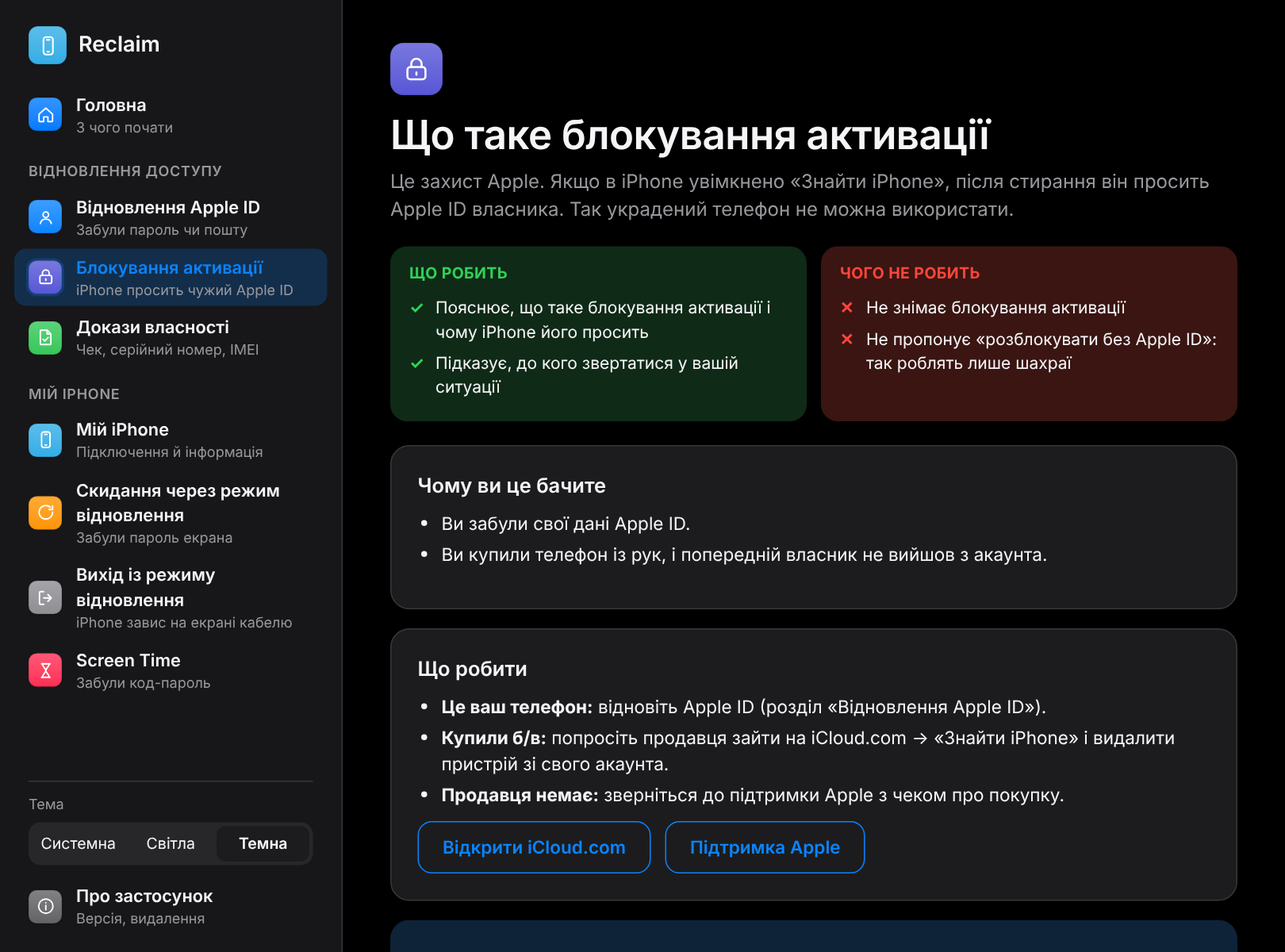
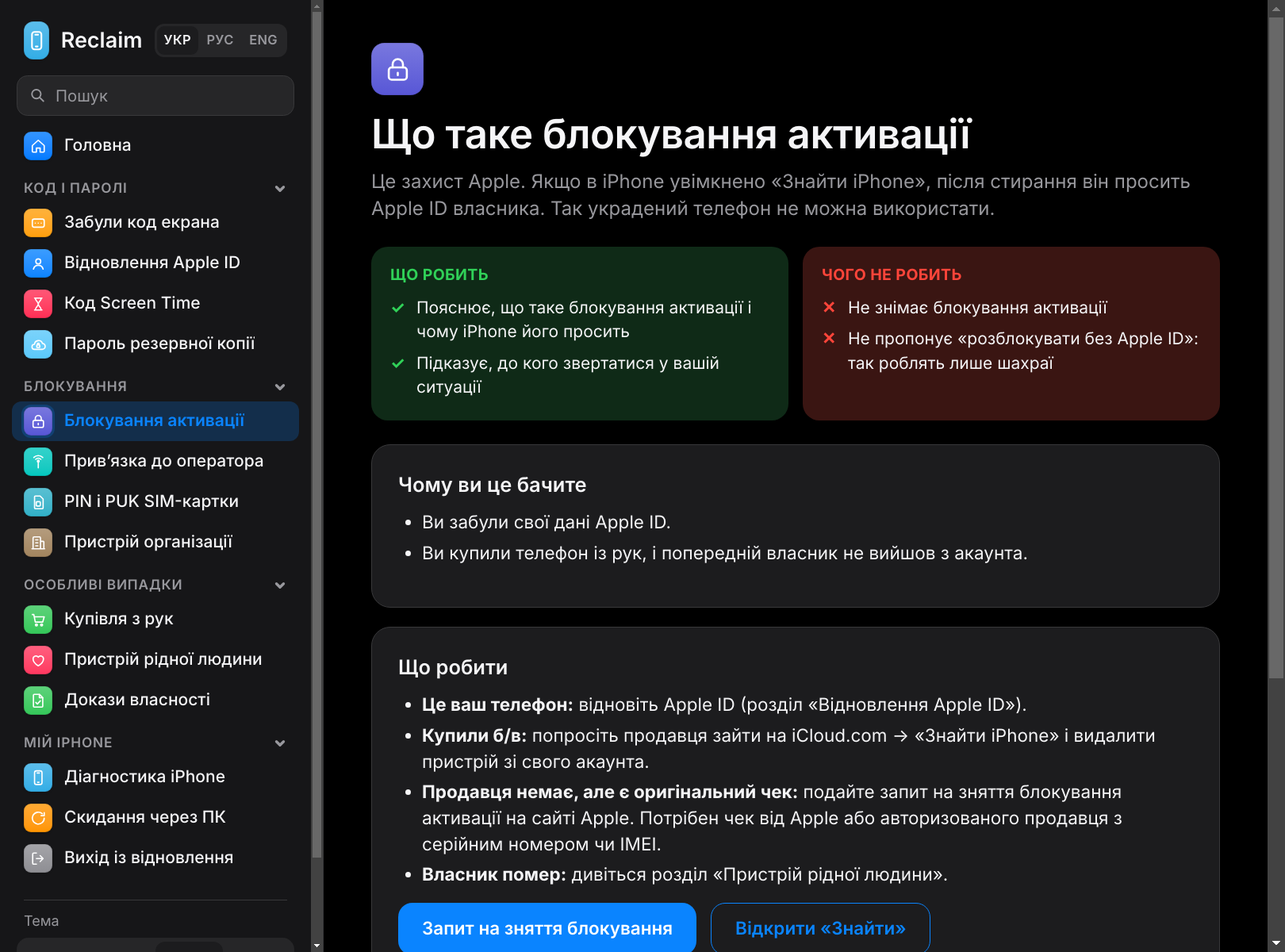
Ліцензія MIT, оновлені README і сайт, нові знімки екрана
- LICENSE (MIT) для коду Reclaim; утиліти в bin/ лишаються під своїми ліцензіями.
- README: опис 1.3, бейдж ліцензії, нові знімки (діагностика, код екрана, «Скло»).
- Сайт: діагностика, 12 ситуацій, 3 мови, 4 теми, нові питання, посилання на ліцензію,
  галерея з новими знімками й темою «Скло».

Claude-Session: https://claude.ai/code/session_01SfcRwrq7JbfbVUVCpvkivz

Changed region(s): [[0.0, 0.0, 1.0, 1.0]]

diff --git a/index.html b/index.html
@@ -4,9 +4,9 @@
 <meta charset="utf-8">
 <meta name="viewport" content="width=device-width, initial-scale=1">
 <title>Reclaim — чесний помічник для власника iPhone</title>
-<meta name="description" content="Reclaim — застосунок для Windows: відновлення Apple ID, пояснення блокування активації, докази власності, інформація про iPhone. Тільки офіційні шляхи Apple.">
+<meta name="description" content="Reclaim — застосунок для Windows: діагностика iPhone через кабель, забутий код екрана й пароль Apple ID, блокування активації, оператор, SIM, купівля з рук. Тільки офіційні шляхи Apple. Українська, російська, англійська.">
 <meta property="og:title" content="Reclaim">
-<meta property="og:description" content="Чесний помічник для власника iPhone, який забув пароль або Apple ID.">
+<meta property="og:description" content="Чесний помічник для власника iPhone: діагностика через кабель і офіційні шляхи Apple для 12 ситуацій.">
 <meta property="og:image" content="screenshots/home.png">
 <link rel="icon" type="image/png" href="icon.png">
 <style>
@@ -194,39 +194,39 @@ footer a{color:var(--ink2)}
 
     <div class="hero">
       <svg class="logo" viewBox="0 0 100 100" aria-hidden="true"><use href="#rc"/></svg>
-      <div class="eyebrow"><i></i>Версія <span class="ver">0.3.1</span> · Windows</div>
+      <div class="eyebrow"><i></i>Версія <span class="ver">1.3</span> · Windows</div>
       <h1>Reclaim</h1>
       <div class="tag">Поверніть доступ чесним шляхом.</div>
-      <p class="lead">Чесний помічник для власника iPhone, який забув пароль або Apple ID. Крок за кроком веде офіційними шляхами Apple.</p>
+      <p class="lead">Чесний помічник для власника iPhone: діагностика через кабель і покрокові офіційні шляхи Apple для 12 ситуацій, від забутого коду до купівлі з рук.</p>
       <div class="cta">
-        <a class="btn primary dl" href="#install"><svg viewBox="0 0 24 24" fill="none" stroke="currentColor" stroke-width="2.2" stroke-linecap="round" stroke-linejoin="round"><path d="M12 4v11M7 10.5l5 5 5-5M5 19.5h14"/></svg>Завантажити <span class="ver">0.3.1</span></a>
+        <a class="btn primary dl" href="#install"><svg viewBox="0 0 24 24" fill="none" stroke="currentColor" stroke-width="2.2" stroke-linecap="round" stroke-linejoin="round"><path d="M12 4v11M7 10.5l5 5 5-5M5 19.5h14"/></svg>Завантажити <span class="ver">1.3</span></a>
         <a class="btn ghost repo" href="#install">Код на GitHub</a>
       </div>
-      <div class="meta">Один інсталятор · без акаунтів · українською</div>
+      <div class="meta">Один інсталятор · без акаунтів · українська, російська, англійська · MIT</div>
 
       <div class="shot">
         <div class="bar"><span>Reclaim</span><span class="ctl"><span>—</span><span>☐</span><span>✕</span></span></div>
-        <img id="heroShot" class="themed" data-shot="home" src="screenshots/home.png" width="1620" height="1200" alt="Головне вікно Reclaim: відновлення Apple ID, блокування активації, скидання, Screen Time, інформація про iPhone">
+        <img id="heroShot" class="themed" data-shot="home" src="screenshots/home.png" width="1620" height="1200" alt="Головне вікно Reclaim: діагностика iPhone, коди й паролі, блокування, особливі випадки">
       </div>
     </div>
 
     <section id="features" class="reveal">
       <div class="head">
         <h2>Підключили — і видно все.</h2>
-        <p>Reclaim показує, що готово, а чого бракує, і лише пропонує офіційні кроки. Нічого не завантажується приховано.</p>
+        <p>Reclaim перевіряє iPhone і підказує, у який розділ звернутися. На телефоні нічого не змінюється, нічого не завантажується приховано.</p>
       </div>
       <div class="wide">
         <div class="txt">
-          <h3>iPhone одразу в розділі «Мій iPhone».</h3>
-          <p>Утиліти libimobiledevice вбудовані, окремо ставити їх не треба. Застосунок перевіряє драйвер Apple і, якщо його немає, пропонує відкрити офіційне встановлення з Microsoft Store.</p>
-          <div class="modes"><span class="on">Драйвер Apple</span><span class="on">iPhone підключено</span><span class="on">Довіра до комп’ютера</span></div>
+          <h3>Діагностика iPhone через кабель.</h3>
+          <p>Активація, код-пароль, «Знайти iPhone», стан SIM-картки, здоров’я й цикли батареї, вільна пам’ять, модель, iOS, серійний номер та IMEI. Якщо щось не так, з’являється порада з кнопкою на потрібний розділ, а звіт можна скопіювати одним натисканням. Утиліти libimobiledevice вбудовані.</p>
+          <div class="modes"><span class="on">Активація</span><span class="on">Код-пароль</span><span class="on">Знайти iPhone</span><span class="on">SIM-картка</span><span class="on">Батарея</span><span class="on">Пам’ять</span></div>
         </div>
-        <div class="pic"><img class="themed" data-shot="device" src="screenshots/device.png" alt="Розділ Мій iPhone: драйвер, підключення, довіра та інформація про пристрій"></div>
+        <div class="pic"><img class="themed" data-shot="device" src="screenshots/device.png" alt="Діагностика iPhone: активація, код-пароль, Знайти iPhone, SIM-картка, батарея й пам’ять"></div>
       </div>
       <div class="stats">
-        <div class="stat"><b>9</b><span>екранів, кожен із простим поясненням</span></div>
-        <div class="stat"><b>3</b><span>теми: системна, світла, темна</span></div>
-        <div class="stat"><b>PDF</b><span>пакет доказів власності</span></div>
+        <div class="stat"><b>12</b><span>ситуацій з офіційним шляхом Apple</span></div>
+        <div class="stat"><b>3</b><span>мови: українська, російська, англійська</span></div>
+        <div class="stat"><b>4</b><span>теми: авто, світла, темна, «Скло»</span></div>
         <div class="stat"><b>0</b><span>обходів захисту Apple</span></div>
       </div>
     </section>
@@ -237,7 +237,7 @@ footer a{color:var(--ink2)}
         <p>На кожному екрані написано, що режим робить і чого не робить.</p>
       </div>
       <div class="grid">
-        <div class="card" style="--c:#0A84FF"><div class="ic"><svg viewBox="0 0 24 24" fill="none" stroke="currentColor" stroke-width="1.8" stroke-linecap="round" stroke-linejoin="round"><circle cx="12" cy="9" r="3.3"/><path d="M5.5 19.5c.8-3.3 3.5-5.2 6.5-5.2s5.7 1.9 6.5 5.2"/></svg></div><h3>Відновлення Apple ID</h3><p>Веде на офіційну сторінку iforgot.apple.com, де відновлюють доступ до облікового запису.</p></div>
+        <div class="card" style="--c:#0A84FF"><div class="ic"><svg viewBox="0 0 24 24" fill="none" stroke="currentColor" stroke-width="1.8" stroke-linecap="round" stroke-linejoin="round"><circle cx="12" cy="9" r="3.3"/><path d="M5.5 19.5c.8-3.3 3.5-5.2 6.5-5.2s5.7 1.9 6.5 5.2"/></svg></div><h3>Відновлення Apple ID</h3><p>Веде на офіційну сторінку iforgot.apple.com і підказує, що робити, якщо Apple ID заблоковано або вимкнено.</p></div>
         <div class="card" style="--c:#FF9F0A"><div class="ic"><svg viewBox="0 0 24 24" fill="none" stroke="currentColor" stroke-width="1.8" stroke-linecap="round" stroke-linejoin="round"><rect x="4" y="6.5" width="16" height="11" rx="2.5"/><path d="M8 12h.01M12 12h.01M16 12h.01"/></svg></div><h3>Забули код екрана</h3><p>Старий код протягом 72 годин, скидання на самому iPhone, через «Знайти» або комп’ютер. Від способу, що зберігає дані, до крайнього.</p></div>
         <div class="card" style="--c:#00C7BE"><div class="ic"><svg viewBox="0 0 24 24" fill="none" stroke="currentColor" stroke-width="1.8" stroke-linecap="round" stroke-linejoin="round"><path d="M12 20v-8M8.5 8.5a5 5 0 017 0M6 6a8.5 8.5 0 0112 0"/><circle cx="12" cy="11" r="1.2"/></svg></div><h3>Прив’язка до оператора</h3><p>Як перевірити «Блокування оператора» і попросити оператора зняти прив’язку законно.</p></div>
         <div class="card" style="--c:#30B0C7"><div class="ic"><svg viewBox="0 0 24 24" fill="none" stroke="currentColor" stroke-width="1.8" stroke-linecap="round" stroke-linejoin="round"><path d="M8 3.5h6.5L18.5 7.5V19.5a1 1 0 01-1 1h-9.5a1 1 0 01-1-1v-15a1 1 0 011-1z"/><rect x="9.3" y="11" width="5.4" height="6" rx="1"/></svg></div><h3>PIN і PUK SIM-картки</h3><p>Де взяти PUK, чому не можна вгадувати і як вимкнути запит PIN.</p></div>
@@ -245,12 +245,12 @@ footer a{color:var(--ink2)}
         <div class="card" style="--c:#A2845E"><div class="ic"><svg viewBox="0 0 24 24" fill="none" stroke="currentColor" stroke-width="1.8" stroke-linecap="round" stroke-linejoin="round"><path d="M5 20V5.5A1.5 1.5 0 016.5 4h7A1.5 1.5 0 0115 5.5V20M15 10h3.5a1 1 0 011 1v9M3.5 20h17M8.5 8h3M8.5 12h3M8.5 16h3"/></svg></div><h3>Пристрій організації</h3><p>Що означає «Віддалене керування» і до кого звернутися, щоб звільнити iPhone.</p></div>
         <div class="card" style="--c:#FF375F"><div class="ic"><svg viewBox="0 0 24 24" fill="none" stroke="currentColor" stroke-width="1.8" stroke-linecap="round" stroke-linejoin="round"><path d="M12 19.5s-7-4.3-7-9.4A3.9 3.9 0 0112 7.8a3.9 3.9 0 017 2.3c0 5.1-7 9.4-7 9.4z"/></svg></div><h3>Пристрій рідної людини</h3><p>Офіційний шлях Apple для родини: контакт спадку або запит з документами.</p></div>
         <div class="card" style="--c:#5AC8FA"><div class="ic"><svg viewBox="0 0 24 24" fill="none" stroke="currentColor" stroke-width="1.8" stroke-linecap="round" stroke-linejoin="round"><path d="M7 18.5h10a4 4 0 00.6-8 5.5 5.5 0 00-10.7 1.2A3.4 3.4 0 007 18.5z"/><rect x="10" y="12.5" width="4" height="3.5" rx=".8"/></svg></div><h3>Пароль резервної копії</h3><p>Як скинути пароль зашифрованих копій на самому iPhone, не втрачаючи даних.</p></div>
-        <div class="card" style="--c:#5856D6"><div class="ic"><svg viewBox="0 0 24 24" fill="none" stroke="currentColor" stroke-width="1.8" stroke-linecap="round" stroke-linejoin="round"><rect x="5" y="10.5" width="14" height="9.5" rx="2.2"/><path d="M8 10.5V8a4 4 0 018 0v2.5M12 14.6v1.8"/></svg></div><h3>Блокування активації</h3><p>Пояснює, що це за захист і як його знімає власник за допомогою Apple ID та пароля.</p></div>
+        <div class="card" style="--c:#5856D6"><div class="ic"><svg viewBox="0 0 24 24" fill="none" stroke="currentColor" stroke-width="1.8" stroke-linecap="round" stroke-linejoin="round"><rect x="5" y="10.5" width="14" height="9.5" rx="2.2"/><path d="M8 10.5V8a4 4 0 018 0v2.5M12 14.6v1.8"/></svg></div><h3>Блокування активації</h3><p>Що це за захист, що робити власнику й покупцеві і як подати офіційний запит до Apple з чеком.</p></div>
         <div class="card" style="--c:#34C759"><div class="ic"><svg viewBox="0 0 24 24" fill="none" stroke="currentColor" stroke-width="1.8" stroke-linecap="round" stroke-linejoin="round"><path d="M6.5 3.5h7.2L18 7.8V19.5a1 1 0 01-1 1H6.5a1 1 0 01-1-1v-15a1 1 0 011-1z"/><path d="M13.5 3.5V8H18M8.7 14.3l2.1 2.1 4-4.2"/></svg></div><h3>Докази власності</h3><p>Чек-лист того, що потрібно підтримці Apple, плюс серійний номер та IMEI, які можна зберегти як PDF-пакет.</p></div>
         <div class="card" style="--c:#32ADE6"><div class="ic"><svg viewBox="0 0 24 24" fill="none" stroke="currentColor" stroke-width="1.8" stroke-linecap="round" stroke-linejoin="round"><rect x="7" y="2.8" width="10" height="18.4" rx="2.6"/><path d="M10.5 5.7h3M11 18.2h2"/></svg></div><h3>Діагностика iPhone</h3><p>Підключіть кабелем: активація, код-пароль, «Знайти iPhone», SIM-картка, здоров’я батареї й цикли, пам’ять, IMEI. Поради, у який розділ звернутися, і звіт одним натисканням.</p></div>
         <div class="card" style="--c:#FF9500"><div class="ic"><svg viewBox="0 0 24 24" fill="none" stroke="currentColor" stroke-width="1.8" stroke-linecap="round" stroke-linejoin="round"><path d="M20 12a8 8 0 11-2.6-5.9"/><path d="M20 4.5v4.2h-4.2"/></svg></div><h3>Скидання через режим відновлення</h3><p>Покрокові підказки для різних моделей. Саме скидання виконує програма Apple, і дані на пристрої видаляються.</p></div>
         <div class="card" style="--c:#8E8E93"><div class="ic"><svg viewBox="0 0 24 24" fill="none" stroke="currentColor" stroke-width="1.8" stroke-linecap="round" stroke-linejoin="round"><path d="M9.5 4.5H6A1.5 1.5 0 004.5 6v12A1.5 1.5 0 006 19.5h3.5M14.5 8l4 4-4 4M18.5 12h-9"/></svg></div><h3>Вихід із режиму відновлення</h3><p>Кроки для різних моделей, якщо iPhone завис на екрані з кабелем і комп’ютером.</p></div>
-        <div class="card" style="--c:#FF2D55"><div class="ic"><svg viewBox="0 0 24 24" fill="none" stroke="currentColor" stroke-width="1.8" stroke-linecap="round" stroke-linejoin="round"><path d="M7 4h10M7 20h10M8 4c0 4 4 5 4 8s-4 4-4 8M16 4c0 4-4 5-4 8s4 4 4 8"/></svg></div><h3>Screen Time</h3><p>Офіційні способи змінити код-пароль Screen Time. Код не підбирається і не «ламається».</p></div>
+        <div class="card" style="--c:#FF2D55"><div class="ic"><svg viewBox="0 0 24 24" fill="none" stroke="currentColor" stroke-width="1.8" stroke-linecap="round" stroke-linejoin="round"><path d="M7 4h10M7 20h10M8 4c0 4 4 5 4 8s-4 4-4 8M16 4c0 4-4 5-4 8s4 4 4 8"/></svg></div><h3>Код Screen Time</h3><p>Офіційні способи змінити код-пароль Screen Time. Код не підбирається і не «ламається».</p></div>
         <div class="card" style="--c:#0A84FF"><div class="ic"><svg viewBox="0 0 24 24" fill="none" stroke="currentColor" stroke-width="1.8" stroke-linecap="round" stroke-linejoin="round"><circle cx="12" cy="12" r="8.5"/><path d="M12 3.5v17"/><path d="M12 3.5a8.5 8.5 0 010 17z" fill="currentColor"/></svg></div><h3>Три мови й теми, зокрема «Скло»</h3><p>Українська, російська або англійська. Теми: авто, світла, темна або «Скло» з розмитими шпалерами вашого робочого стола. Вибір запам’ятовується.</p></div>
         <div class="card" style="--c:#FF3B30"><div class="ic"><svg viewBox="0 0 24 24" fill="none" stroke="currentColor" stroke-width="1.8" stroke-linecap="round" stroke-linejoin="round"><path d="M4 7h16M9 7V4.5h6V7M6.5 7l1 13h9l1-13"/></svg></div><h3>Видалення в один клік</h3><p>У «Про застосунок» видно версію, а кнопка запускає стандартне видалення Windows.</p></div>
       
@@ -263,15 +263,15 @@ footer a{color:var(--ink2)}
     <section id="gallery" class="gallery reveal">
       <div class="head">
         <h2>Подивіться зблизька.</h2>
-        <p>Світла й темна тема, бічне меню з підрозділами, у стилі Apple.</p>
+        <p>Світла, темна й «Скло», компактне меню з групами й пошуком, у стилі Apple.</p>
       </div>
       <div class="tabs" role="tablist" aria-label="Знімки екрана">
         <button role="tab" data-i="0" aria-selected="true">Головна</button>
-        <button role="tab" data-i="1" aria-selected="false">Мій iPhone</button>
-        <button role="tab" data-i="2" aria-selected="false">Докази</button>
+        <button role="tab" data-i="1" aria-selected="false">Діагностика</button>
+        <button role="tab" data-i="2" aria-selected="false">Код екрана</button>
         <button role="tab" data-i="3" aria-selected="false">Активація</button>
-        <button role="tab" data-i="4" aria-selected="false">Скидання</button>
-        <button role="tab" data-i="5" aria-selected="false">Про застосунок</button>
+        <button role="tab" data-i="4" aria-selected="false">Докази</button>
+        <button role="tab" data-i="5" aria-selected="false">«Скло»</button>
       </div>
       <div class="shot">
         <div class="bar"><span>Reclaim</span><span class="ctl"><span>—</span><span>☐</span><span>✕</span></span></div>
@@ -311,12 +311,15 @@ footer a{color:var(--ink2)}
       <div class="head"><h2>Питання й відповіді.</h2></div>
       <div class="faq">
         <details><summary>Чи може Reclaim розблокувати чужий iPhone?</summary><p>Ні. Застосунок не обходить блокування активації і не знімає Apple ID без пароля власника.</p></details>
-        <details><summary>Навіщо потрібен драйвер Apple?</summary><p>Без служби Apple Mobile Device, яка входить до Apple Devices та iTunes, Windows не бачить iPhone, і розділ «Мій iPhone» буде порожнім.</p></details>
+        <details><summary>Навіщо потрібен драйвер Apple?</summary><p>Без служби Apple Mobile Device, яка входить до Apple Devices та iTunes, Windows не бачить iPhone, і «Діагностика iPhone» не зможе його перевірити.</p></details>
         <details><summary>Чи завантажує Reclaim щось сам?</summary><p>Ні. Якщо драйвера немає, застосунок лише пропонує відкрити офіційне встановлення з Microsoft Store.</p></details>
         <details><summary>Що станеться з даними під час скидання?</summary><p>Скидання через режим відновлення видаляє дані на iPhone. Його виконує програма Apple, а не Reclaim.</p></details>
         <details><summary>Скільки триває відновлення Apple ID?</summary><p>Це визначає Apple. Іноді відновлення облікового запису займає кілька днів, тому докази власності краще підготувати заздалегідь.</p></details>
         <details><summary>Куди потрапляють мої дані?</summary><p>Reclaim працює локально на вашому комп’ютері й відкриває лише офіційні сайти Apple та Microsoft Store. Єдиний мережевий запит застосунок робить до GitHub: раз на годину питає номер останньої версії. Історія iPhone лежить лише на вашому комп’ютері й нікуди не надсилається.</p></details>
-        <details><summary>Це відкритий код?</summary><p>Так, увесь код лежить у <a class="repo" href="#">репозиторії на GitHub</a>, а інсталятор збирає GitHub Actions із цього коду.</p></details>
+        <details><summary>Чи можна перевірити iPhone перед покупкою?</summary><p>Так. Підключіть його кабелем: «Діагностика iPhone» покаже стан активації, SIM-картки й батареї, а розділ «Купівля з рук» підкаже, що ще перевірити до оплати. Головне правило: продавець має вийти з Apple ID і стерти iPhone при вас.</p></details>
+        <details><summary>Чому не видно номер телефону?</summary><p>iOS часто не передає номер через кабель, особливо з eSIM, а багато операторів не записують номер на SIM-картку. Тому Reclaim чесно пише, що номер недоступний.</p></details>
+        <details><summary>Якими мовами працює застосунок?</summary><p>Українською, російською та англійською. Перемикач стоїть поруч із назвою Reclaim, вибір запам’ятовується.</p></details>
+        <details><summary>Це відкритий код?</summary><p>Так, увесь код лежить у <a class="repo" href="#">репозиторії на GitHub</a> під ліцензією MIT, а інсталятор збирає GitHub Actions із цього коду. Вбудовані утиліти libimobiledevice мають власні ліцензії.</p></details>
         <details><summary>Як оновити застосунок?</summary><p>Коли вийде нова версія, на головній і в «Про застосунок» з’явиться кнопка «Оновити»: вона відкриє сторінку релізу. Завантажте новий інсталятор і запустіть його. Нічого не встановлюється без вашої дії.</p></details>
         <details><summary>Як видалити застосунок?</summary><p>Через <b>Параметри → Програми → Reclaim → Видалити</b> або кнопкою в розділі «Про застосунок».</p></details>
       </div>
@@ -325,9 +328,9 @@ footer a{color:var(--ink2)}
     <div class="get reveal">
       <svg class="logo" viewBox="0 0 100 100" aria-hidden="true"><use href="#rc"/></svg>
       <h2>Поверніть доступ до свого iPhone.</h2>
-      <p class="lead">Версія <span class="ver">0.3.1</span> для Windows.</p>
+      <p class="lead">Версія <span class="ver">1.3</span> для Windows.</p>
       <div class="cta">
-        <a class="btn primary dl" href="#install"><svg viewBox="0 0 24 24" fill="none" stroke="currentColor" stroke-width="2.2" stroke-linecap="round" stroke-linejoin="round"><path d="M12 4v11M7 10.5l5 5 5-5M5 19.5h14"/></svg>Завантажити <span class="ver">0.3.1</span></a>
+        <a class="btn primary dl" href="#install"><svg viewBox="0 0 24 24" fill="none" stroke="currentColor" stroke-width="2.2" stroke-linecap="round" stroke-linejoin="round"><path d="M12 4v11M7 10.5l5 5 5-5M5 19.5h14"/></svg>Завантажити <span class="ver">1.3</span></a>
         <a class="btn ghost rel" href="#install">Усі версії</a>
         <a class="btn ghost repo" href="#install">Код на GitHub</a>
       </div>
@@ -337,7 +340,7 @@ footer a{color:var(--ink2)}
 
 <footer>
   <div class="wrap">
-    <span>© 2026 Дмитро Бричнік · Reclaim <span class="ver">0.3.1</span> · <a class="repo" href="#">Код на GitHub</a></span>
+    <span>© 2026 Дмитро Бричнік · Reclaim <span class="ver">1.3</span> · <a class="repo" href="#">Код на GitHub</a> · <a class="license" href="#">Ліцензія MIT</a></span>
     <span>Вбудовані утиліти: libimobiledevice, OpenSSL · <a class="notice" href="#">ліцензії</a></span>
     <span>Apple, iPhone, iTunes та Apple ID є торговими марками Apple Inc. Reclaim не пов’язаний з Apple.</span>
   </div>

diff --git a/script.js b/script.js
@@ -16,6 +16,7 @@
   document.querySelectorAll('.rel').forEach(function (a) { a.href = base + '/releases'; });
   document.querySelectorAll('.repo').forEach(function (a) { a.href = base; });
   document.querySelectorAll('.notice').forEach(function (a) { a.href = base + '/blob/main/bin/NOTICE.txt'; });
+  document.querySelectorAll('.license').forEach(function (a) { a.href = base + '/blob/main/LICENSE'; });
 
   function setVer(v) { document.querySelectorAll('.ver').forEach(function (s) { s.textContent = v; }); }
   setVer(cfg.version || '');
@@ -53,17 +54,17 @@
   // ----- галерея -----
   var shots = [
     { n: 'home',       c: 'Головна: оберіть, що сталося, і Reclaim проведе офіційним шляхом Apple.' },
-    { n: 'device',     c: 'Мій iPhone: що готово, а чого бракує, плюс модель, версія iOS, серійний номер та IMEI.' },
+    { n: 'device',     c: 'Діагностика iPhone: активація, код-пароль, «Знайти iPhone», SIM-картка, батарея й пам’ять, плюс поради, куди звернутися.' },
+    { n: 'passcode',   c: 'Забули код екрана: чотири офіційні способи, від того, що зберігає дані, до скидання.' },
+    { n: 'activation', c: 'Блокування активації: що це, що робити власнику й покупцеві і як подати запит до Apple.' },
     { n: 'proof',      c: 'Докази власності: чек-лист для підтримки Apple і PDF-пакет із серійним номером та IMEI.' },
-    { n: 'activation', c: 'Блокування активації: що це, чому воно є і як його знімає власник.' },
-    { n: 'reset',      c: 'Скидання через режим відновлення: кроки для різних моделей. Саме скидання виконує програма Apple.' },
-    { n: 'about',      c: 'Про застосунок: версія, вбудовані утиліти, стан драйвера й видалення.' }
+    { n: 'home-glass', c: 'Тема «Скло»: під вікном розмиті шпалери вашого робочого стола, як у «Тихому ПК».', fixed: true }
   ];
   var cur = 0, img = document.getElementById('galImg'), cap = document.getElementById('galCap');
   function show(i) {
     cur = i;
     var s = shots[i], dark = root.getAttribute('data-theme') === 'dark';
-    var src = 'screenshots/' + s.n + (dark ? '-dark' : '') + '.png';
+    var src = 'screenshots/' + s.n + (dark && !s.fixed ? '-dark' : '') + '.png';
     if (img.getAttribute('src') !== src) {
       img.style.opacity = 0;
       setTimeout(function () { img.src = src; img.onload = function () { img.style.opacity = 1; }; }, 150);
